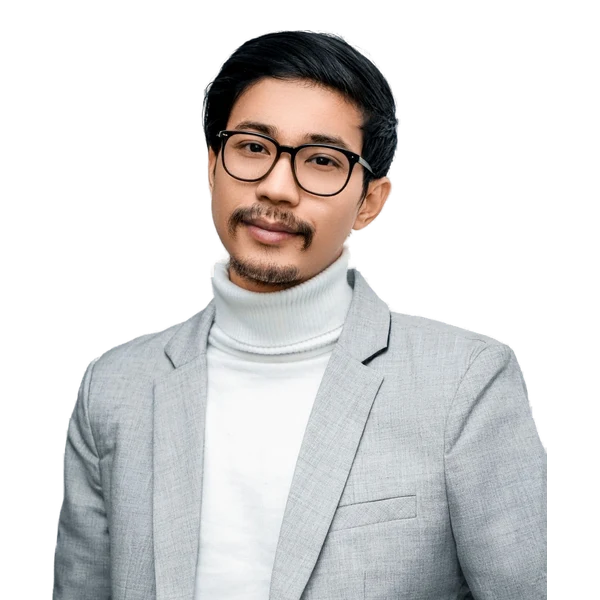
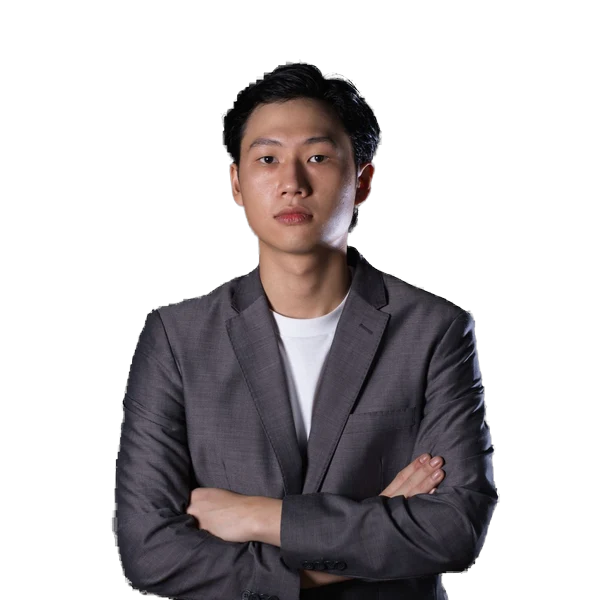
style(frontend): ảnh vinh danh đổi sang người Việt (Pexels: nữ sinh áo trắng đeo balo, nam vest xám, nữ áo trắng khăn rằn trên phố Sài Gòn), tách nền + căn giữa theo mặt

diff --git a/frontend/src/shared/mocks/marketing.ts b/frontend/src/shared/mocks/marketing.ts
@@ -216,7 +216,7 @@ export const BLOG_CATEGORIES = [
 
 export const TESTIMONIALS: Testimonial[] = [
   {
-    avatar: '/images/students/hv-hoang-lan.webp?v=2',
+    avatar: '/images/students/hv-hoang-lan.webp?v=3',
     name: 'Phạm Hoàng Lan',
     role: 'Sinh viên ĐH Bách khoa Hà Nội',
     exam: 'TOEIC',
@@ -231,7 +231,7 @@ export const TESTIMONIALS: Testimonial[] = [
     quote: 'Trước mình làm đề xong là thôi, câu sai lần sau vẫn sai. Từ hồi dùng sổ tay lỗi sai thì Part 5 lên rõ, riêng Reading tăng hơn 150 điểm.',
   },
   {
-    avatar: '/images/students/hv-minh-khoa.webp?v=2',
+    avatar: '/images/students/hv-minh-khoa.webp?v=3',
     name: 'Lê Minh Khoa',
     role: 'Giáo viên tiếng Anh THPT, Đà Nẵng',
     exam: 'VSTEP',
@@ -246,7 +246,7 @@ export const TESTIMONIALS: Testimonial[] = [
     quote: 'Giáo viên THPT cần chứng chỉ C1 nên mình phải thi lại. Đi dạy cả ngày, tối chỉ học được khoảng 45 phút, nhưng bài Writing nào cũng được chấm theo từng tiêu chí nên biết mình mất điểm ở đâu.',
   },
   {
-    avatar: '/images/students/hv-gia-han.webp?v=2',
+    avatar: '/images/students/hv-gia-han.webp?v=3',
     name: 'Trần Gia Hân',
     role: 'Nhân viên kinh doanh, TP.HCM',
     exam: 'TOEIC',
